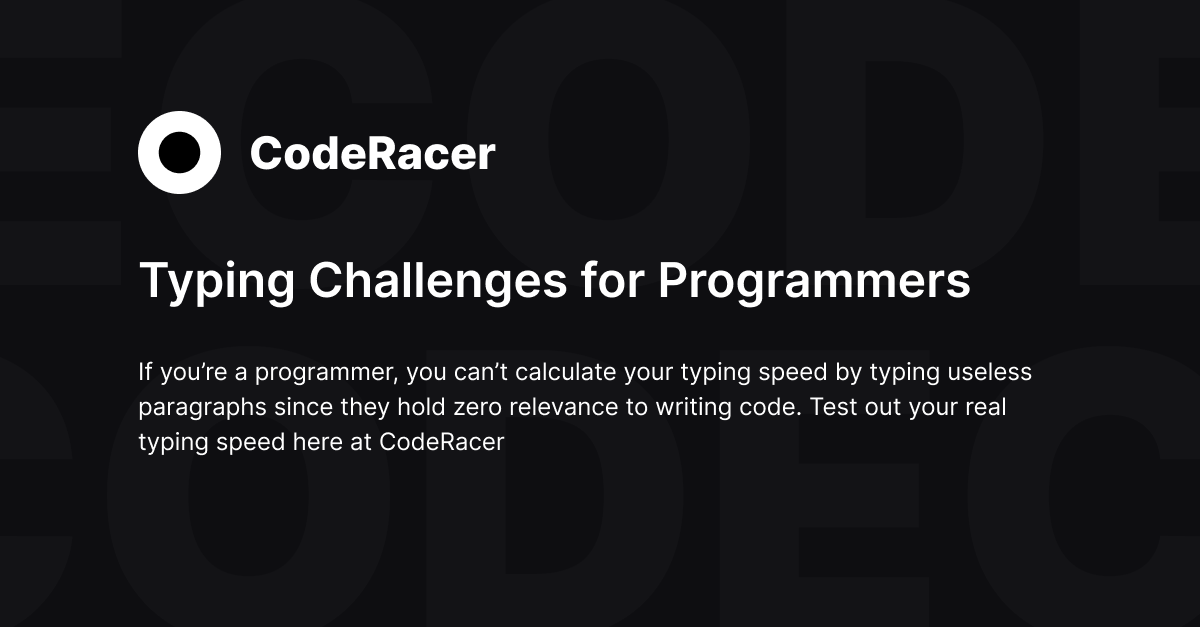
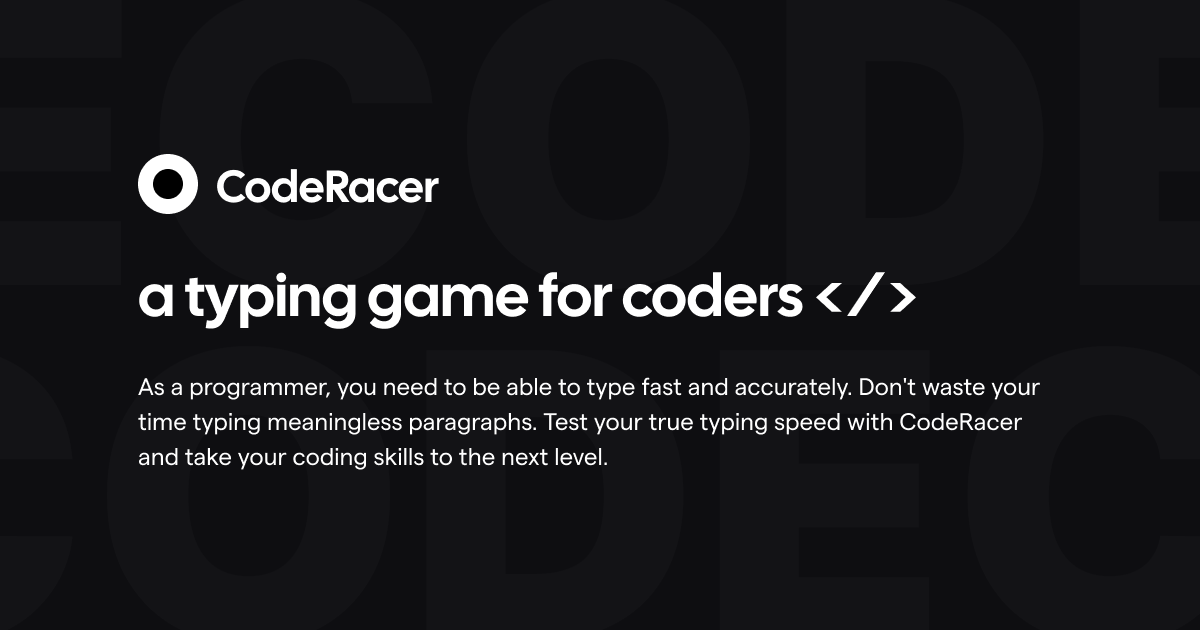
last tryu

Changed region(s): [[0.0925, 0.5758, 0.8633, 0.7576], [0.0925, 0.3939, 0.8325, 0.5455], [0.0925, 0.1818, 0.4317, 0.3636]]

diff --git a/app/head.tsx b/app/head.tsx
@@ -17,7 +17,7 @@ export default function Head() {
       <meta name="twitter:creator" content="@krishnerkar" />
       <meta name="twitter:title" content="CodeRacer" />
       <meta name="twitter:description" content="A Typing game for coders" />
-      <meta name="twitter:image" content="http://graphics8.nytimes.com/images/2012/02/19/us/19whitney-span/19whitney-span-articleLarge.jpg"/>
+      <meta name="twitter:image" content="https://coderacer.tech/meta.png"/>
     </>
   );
 }
